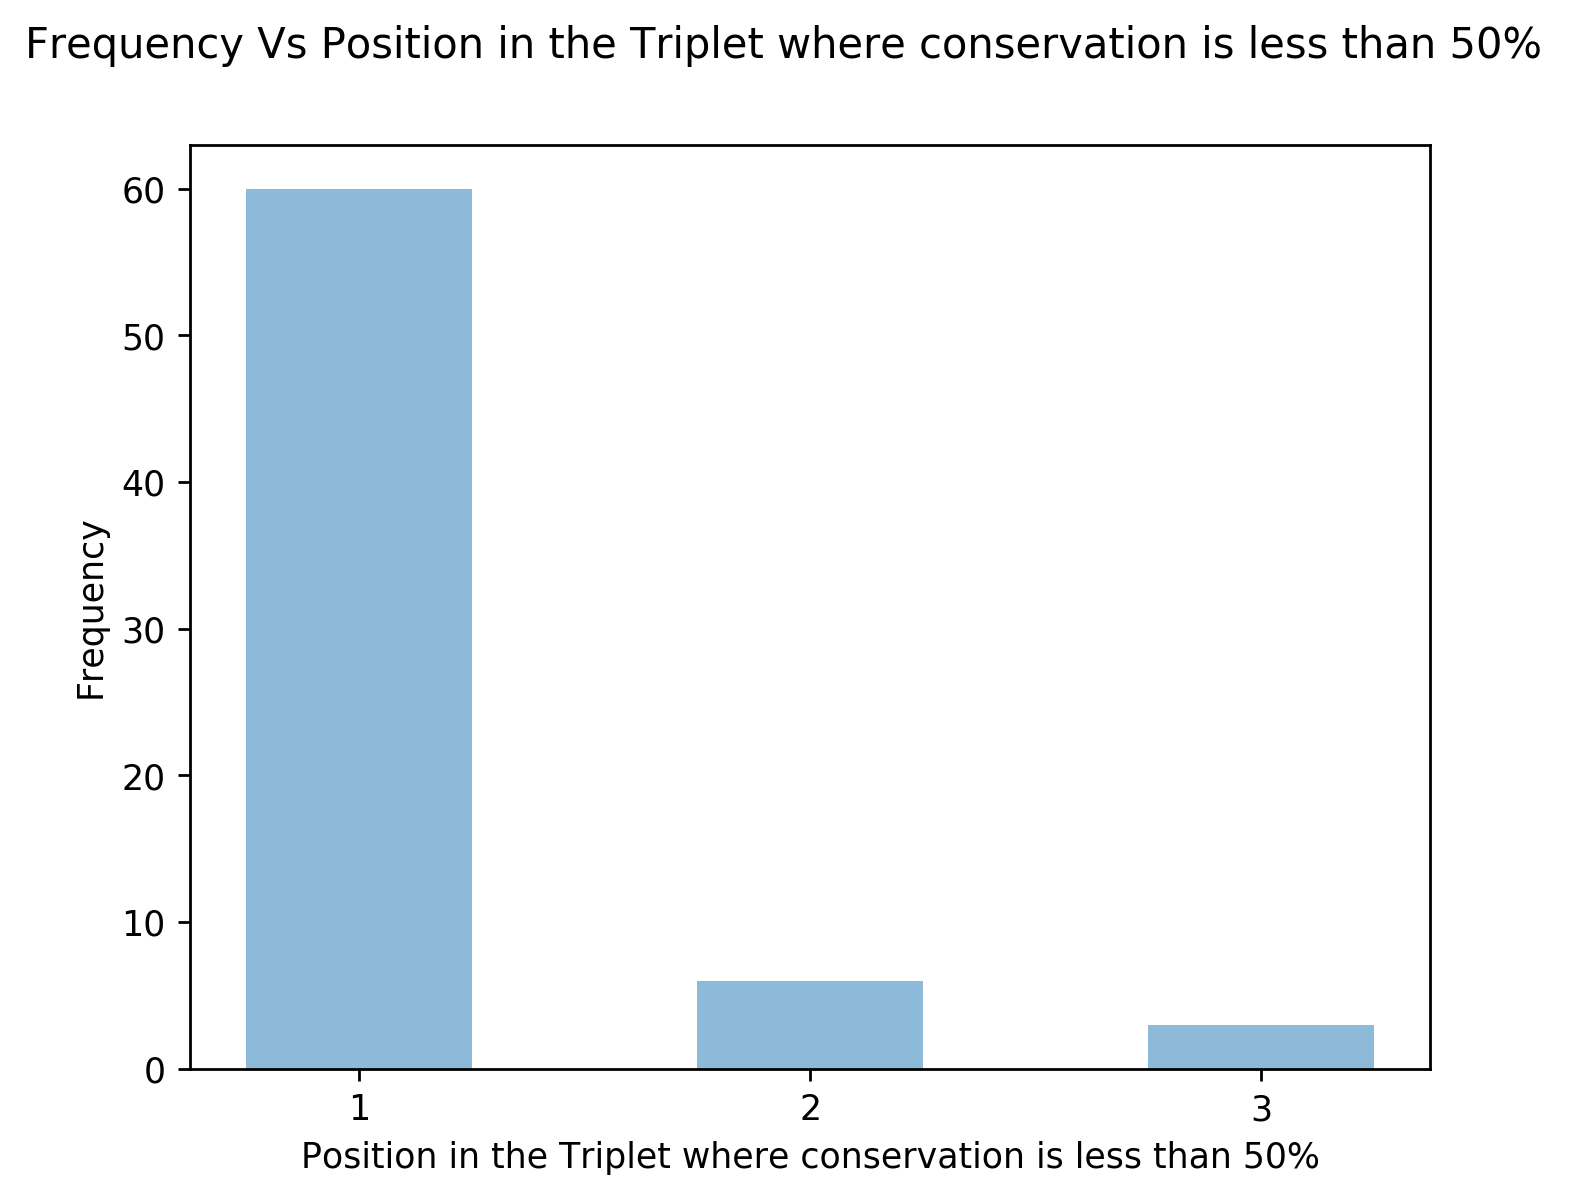
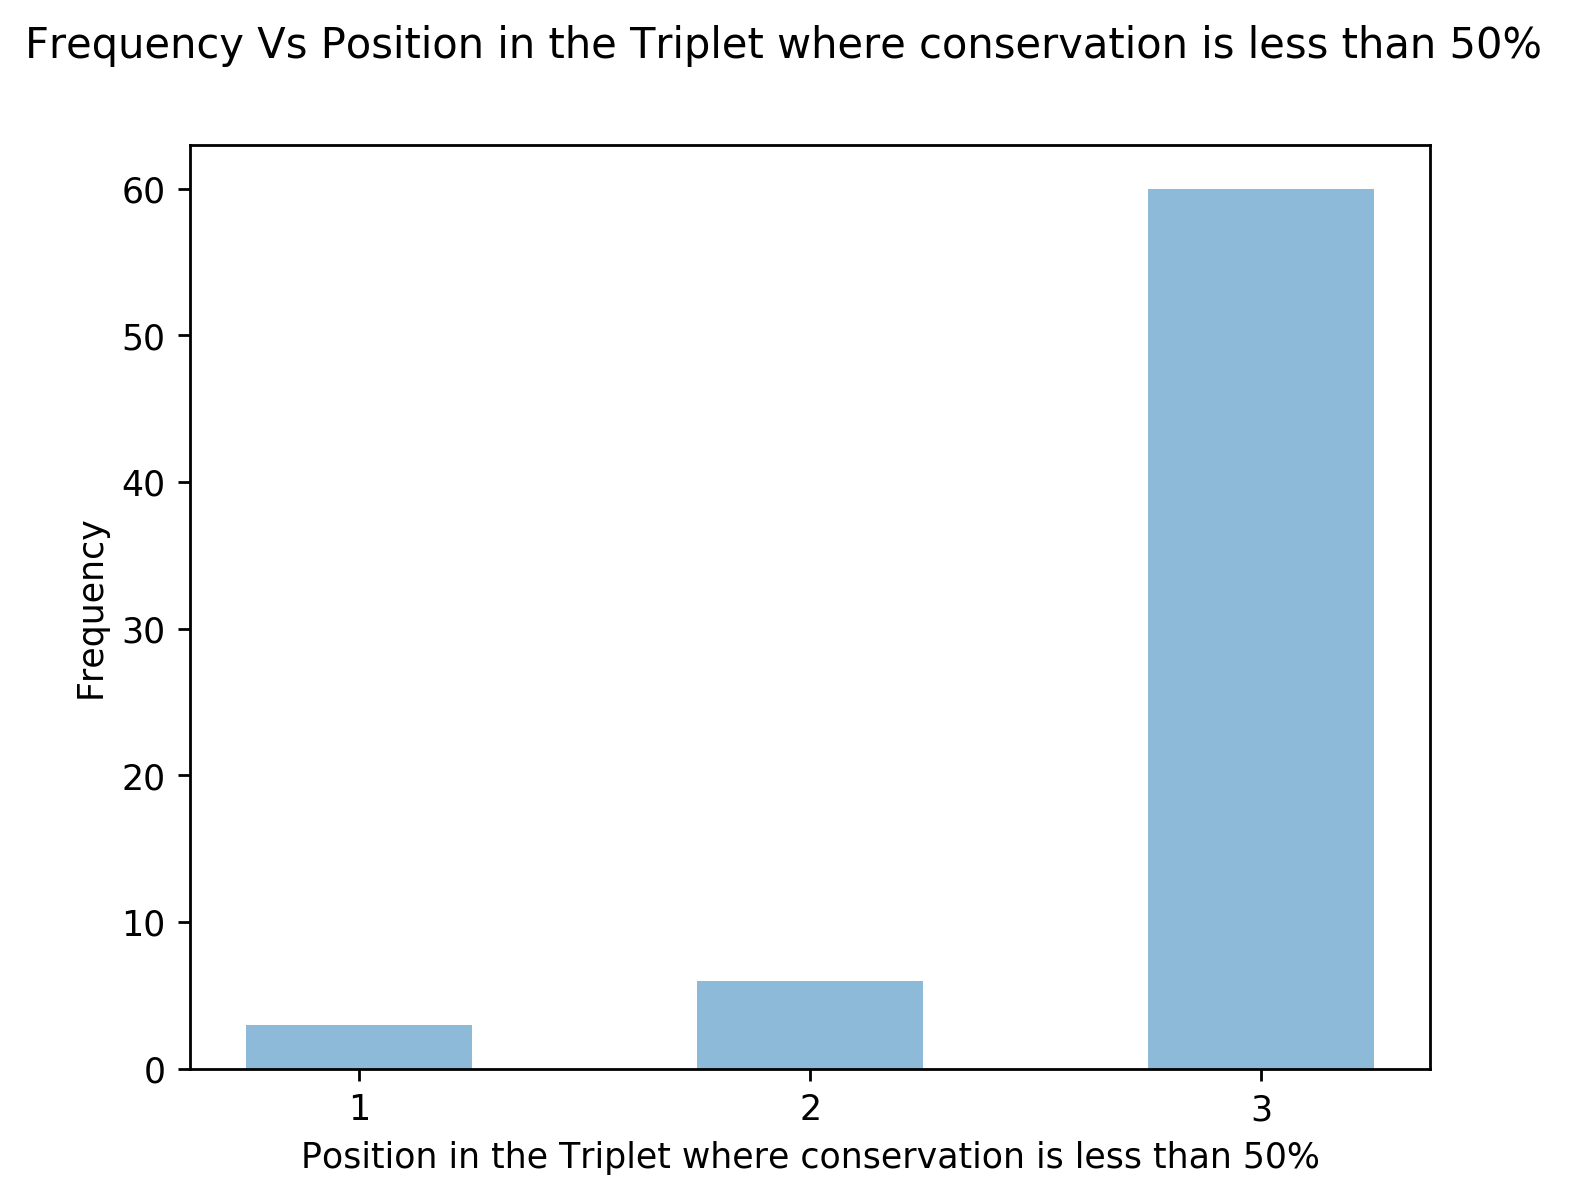
Fixed the frequency graph

Changed region(s): [[0.7133, 0.1542, 0.8684, 0.8633], [0.1551, 0.1542, 0.3101, 0.8633]]

diff --git a/django_PriMSA/primsa/views.py b/django_PriMSA/primsa/views.py
@@ -486,7 +486,7 @@ def tree_draw_newick():
     '''
     plt.subplot(1,1,1)
     x_labels= [x+1 for x in counter.keys()]
-    plt.bar(range(len(counter)), counter.values(), width=0.5,align='center', alpha=0.5)
+    plt.bar(list(reversed(range(len(counter)))), counter.values(), width=0.5,align='center', alpha=0.5)
     plt.xticks(range(len(counter)), x_labels)
     plt.ylabel("Frequency")
     plt.xlabel("Position in the Triplet where conservation is less than 50%")
